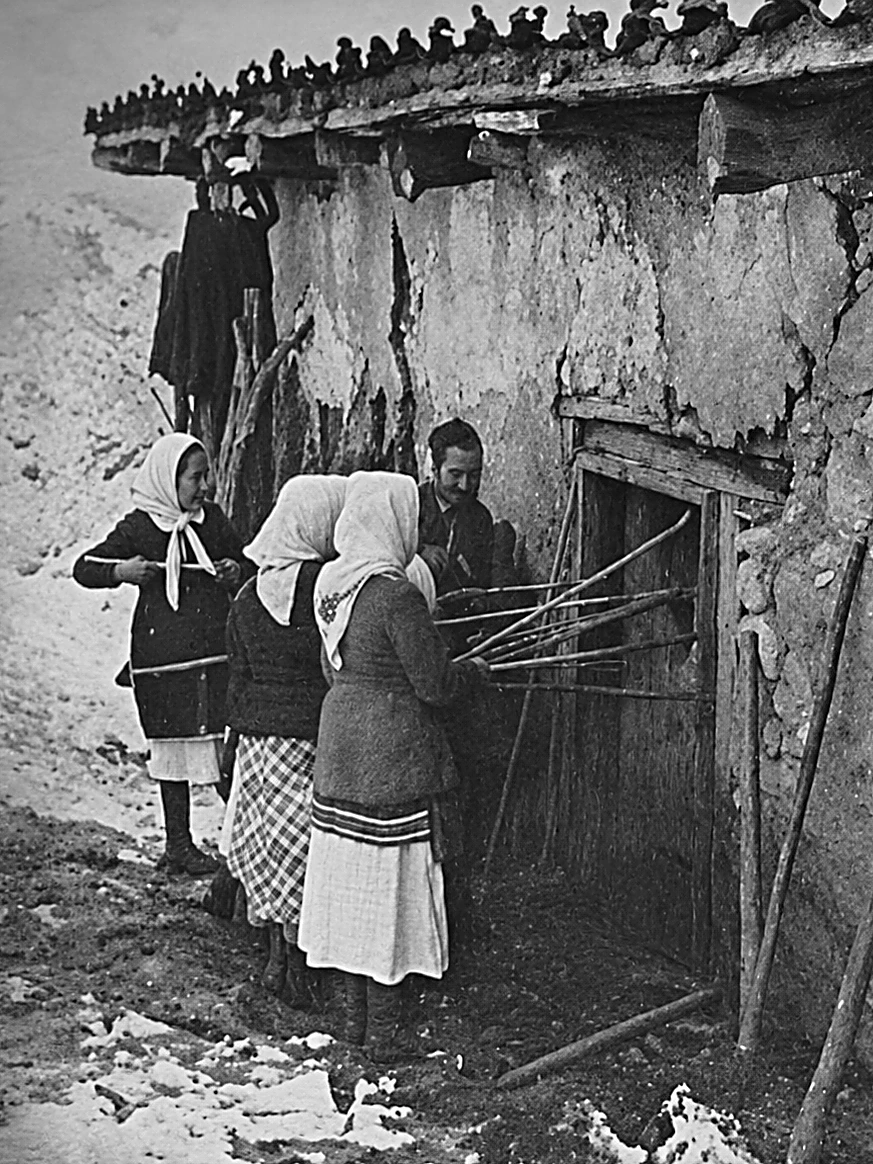
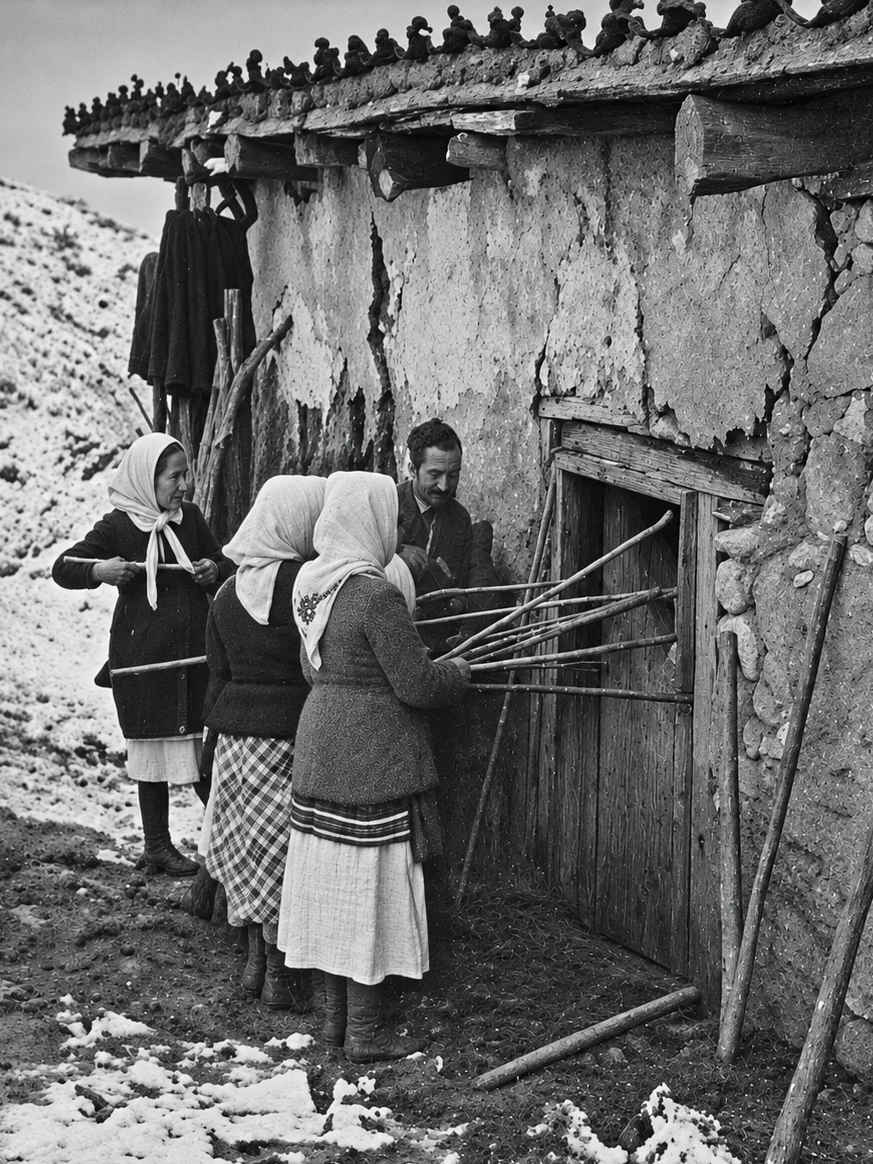
Publish reconstructed Kolede photographs

diff --git a/kolede.html b/kolede.html
@@ -12,9 +12,9 @@
 <meta property="og:description" content="Children sing at the doorstep on Badnik morning, carrying a Macedonian Christmas tradition from house to house.">
 <meta property="og:image:alt" content="Carolers with wooden sticks gather at the door of a stone house.">
 <meta property="og:title" content="Kolede | Muzej"/>
-<meta property="og:image" content="https://muzej.co/Assets/Kolede/doorway-hero-3x4.webp?v=20261121-sharp"/>
+<meta property="og:image" content="https://muzej.co/Assets/Kolede/doorway-hero-3x4.webp?v=20261121-restored"/>
 <meta name="twitter:card" content="summary_large_image"/>
-<meta name="twitter:image" content="https://muzej.co/Assets/Kolede/doorway-hero-3x4.webp?v=20261121-sharp"/>
+<meta name="twitter:image" content="https://muzej.co/Assets/Kolede/doorway-hero-3x4.webp?v=20261121-restored"/>
 <link href="./Assets/Font/Muzej%20Logo.ai.png" rel="icon" type="image/png"/>
 <link href="./Assets/Font/Muzej%20Logo.ai.png" rel="apple-touch-icon"/>
 <link href="https://fonts.googleapis.com" rel="preconnect"/>
@@ -1155,7 +1155,7 @@ body.muzej-logo-hidden .site-header .brand-mark {
     </div>
     <div class="muzej-intro-media">
       <figure class="lazarki-hero">
-        <img src="./Assets/Kolede/doorway-hero-3x4.webp?v=20261121-sharp" alt="Carolers with wooden sticks gather at the door of a stone house." width="873" height="1164" fetchpriority="high">
+        <img src="./Assets/Kolede/doorway-hero-3x4.webp?v=20261121-restored" alt="Carolers with wooden sticks gather at the door of a stone house." width="873" height="1164" fetchpriority="high">
       </figure>
       <p class="lazarki-deck muzej-intro-deck">On Christmas Eve morning, children go from door to door to sing the news that Christmas is coming.</p>
     </div>
@@ -1164,8 +1164,8 @@ body.muzej-logo-hidden .site-header .brand-mark {
   <article class="article-shell article-longform" aria-label="Kolede">
     <section class="content-row">
       <figure class="article-body-media">
-        <img src="./Assets/Kolede/gradovci-snow-3x4.webp?v=20261121-sharp" alt="Children carrying sticks walk through deep snow in Gradovci." width="750" height="1000" loading="lazy" decoding="async">
-        <figcaption>Children make their Kolede rounds in Gradovci. Vera Kličkova, <a href="https://drive.google.com/file/d/1tvSvvbi-VQbf3Er73xqvJZTLF5SULGus/view?usp=share_link"><i>Bulletin of the Ethnological Museum</i>, no. 1 (1960)</a>, p. 206, fig. 2. Digitally restored and cropped.</figcaption>
+        <img src="./Assets/Kolede/gradovci-snow-3x4.webp?v=20261121-restored" alt="Children carrying sticks walk through deep snow in Gradovci." width="768" height="1024" loading="lazy" decoding="async">
+        <figcaption>Children make their Kolede rounds in Gradovci. Vera Kličkova, <a href="https://drive.google.com/file/d/1tvSvvbi-VQbf3Er73xqvJZTLF5SULGus/view?usp=share_link"><i>Bulletin of the Ethnological Museum</i>, no. 1 (1960)</a>, p. 206, fig. 2. Digitally reconstructed and cropped.</figcaption>
       </figure>
       <div class="article-body-copy body-block">
         <p>A child in Prilep told a reporter on Christmas Eve morning that it was their first time out collecting chestnuts. The group was walking through the neighborhood with little sticks called <i>koledački</i>. They used them to knock on doors. Another child told the reporter that adults had taught them the songs and how to make the rounds.</p>
@@ -1190,8 +1190,8 @@ body.muzej-logo-hidden .site-header .brand-mark {
 
     <section class="content-row">
       <figure class="article-body-media">
-        <img src="./Assets/Kolede/archive-novo-selo.webp?v=20261121-sharp" alt="Children with wooden sticks are welcomed at a doorway in Novo Selo." width="1050" height="1400" loading="lazy" decoding="async">
-        <figcaption>Welcoming the carolers in Novo Selo. Vera Kličkova, <a href="https://drive.google.com/file/d/1tvSvvbi-VQbf3Er73xqvJZTLF5SULGus/view?usp=share_link"><i>Bulletin of the Ethnological Museum</i>, no. 1 (1960)</a>, p. 206, fig. 3.</figcaption>
+        <img src="./Assets/Kolede/novo-selo-doorway-3x4.webp?v=20261121-restored" alt="Children with wooden sticks are welcomed at a doorway in Novo Selo." width="807" height="1076" loading="lazy" decoding="async">
+        <figcaption>Welcoming the carolers in Novo Selo. Vera Kličkova, <a href="https://drive.google.com/file/d/1tvSvvbi-VQbf3Er73xqvJZTLF5SULGus/view?usp=share_link"><i>Bulletin of the Ethnological Museum</i>, no. 1 (1960)</a>, p. 206, fig. 3. Digitally reconstructed and cropped.</figcaption>
       </figure>
       <div class="article-body-copy body-block">
         <h2 class="chapter-heading">From house to street</h2>
@@ -1204,7 +1204,7 @@ body.muzej-logo-hidden .site-header .brand-mark {
           <p><a href="https://macedonism.org/Македонска_Енциклопедија/коледарски-народни-песни/">“Koledarski narodni pesni.”</a> <i>Macedonian Encyclopedia</i>.</p>
           <p>Macedonian Language E-Learning Center. <a href="https://macedonianlanguage.org/Play/ChildrensRhymesandGames/Коледе.aspx">“Kolede.”</a> A version of the rhyme with an English translation and audio.</p>
           <p>Macedonian Information Agency, January 5, 2026. <a href="https://mia.mk/en/story/badnik-processions-to-be-held-in-80-cities-nationwide-central-event-in-skopje">Report on the Badnik processions</a>. Bigorski Monastery, <a href="https://bigorski.org.mk/en/reports/world-news/new-video-for-the-eternal-god/">“The Eternal God”</a>.</p>
-          <p>Opening photograph: carolers knock at the door. Vera Kličkova, <a href="https://drive.google.com/file/d/1tvSvvbi-VQbf3Er73xqvJZTLF5SULGus/view?usp=share_link"><i>Bulletin of the Ethnological Museum</i>, no. 1 (1960)</a>, p. 207, fig. 4. Digitally restored and cropped.</p>
+          <p>Opening photograph: carolers knock at the door. Vera Kličkova, <a href="https://drive.google.com/file/d/1tvSvvbi-VQbf3Er73xqvJZTLF5SULGus/view?usp=share_link"><i>Bulletin of the Ethnological Museum</i>, no. 1 (1960)</a>, p. 207, fig. 4. Digitally reconstructed and cropped.</p>
         </section>
       </div>
     </section>

diff --git a/index.html b/index.html
@@ -89,7 +89,7 @@
 <button type="button" data-step="1" aria-label="Next Traditions stories" aria-controls="traditions-stories"><svg viewBox="0 0 24 24" width="22" height="22" fill="none" stroke="currentColor" stroke-width="1.2" aria-hidden="true"><path d="M4 12h16m-7-7 7 7-7 7"/></svg></button>
 </div></div><div class="four-grid" id="traditions-stories">
 <article class="story">
-  <a class="story-media" href="./kolede.html"><img alt="Children carrying sticks walk through deep snow in Gradovci." decoding="async" loading="lazy" width="750" height="1000" src="./Assets/Kolede/gradovci-snow-3x4.webp?v=20261121-sharp"/></a>
+  <a class="story-media" href="./kolede.html"><img alt="Children carrying sticks walk through deep snow in Gradovci." decoding="async" loading="lazy" width="768" height="1024" src="./Assets/Kolede/gradovci-snow-3x4.webp?v=20261121-restored"/></a>
   <div class="story-copy"><p class="eyebrow">Ritual</p><h3 class="home-story-headline"><a href="./kolede.html">Kolede</a></h3><p class="story-deck">Christmas Eve songs carried from door to door.</p></div>
 </article>
 <article class="story"><a class="story-media" href="./vodici-in-bituse.html"><img alt="A woman carrying a wicker basket against the snowy mountains of Bituše" class="" decoding="async" loading="lazy" src="./Assets/Vodici/web/vodici-05-retouched.webp"/></a><div class="story-copy"><p class="eyebrow">Ritual | Bituše</p><h3 class="home-story-headline"><a href="./vodici-in-bituse.html">Vodici in Bituše</a></h3><p class="story-deck">Bread, song, and a January homecoming.</p></div></article><article class="story"><a class="story-media" href="./lazarki.html"><img alt="Young women in traditional dress arranging flowers in a basket" class="" decoding="async" loading="lazy" src="./Assets/Homepage/lazarki-07.webp"/></a><div class="story-copy"><p class="eyebrow">Ritual</p><h3 class="home-story-headline"><a href="./lazarki.html">Lazarki</a></h3><p class="story-deck">Spring blessings carried from house to house.</p></div></article><article class="story"><a class="story-media" href="./rusalii.html"><img alt="Restored and colorized archival portrait of a Rusalii dancer with an arm and knee raised" class="" decoding="async" loading="lazy" src="./Assets/Rusalii/rusalii-01.webp"/></a><div class="story-copy"><p class="eyebrow">Ritual | Sekirnik</p><h3 class="home-story-headline"><a href="./rusalii.html">Rusalii</a></h3><p class="story-deck">The sword dancers of Sekirnik.</p></div></article><article class="story"><a class="story-media" href="./dodole.html"><img alt="Archival photograph of women and girls gathered around a Macedonian rain-making ritual" class="" decoding="async" loading="lazy" src="./Assets/Homepage/rain2.webp"/></a><div class="story-copy"><p class="eyebrow">Ritual</p><h3 class="home-story-headline"><a href="./dodole.html">Dodole</a></h3><p class="story-deck">A song asking for rain.</p></div></article>
